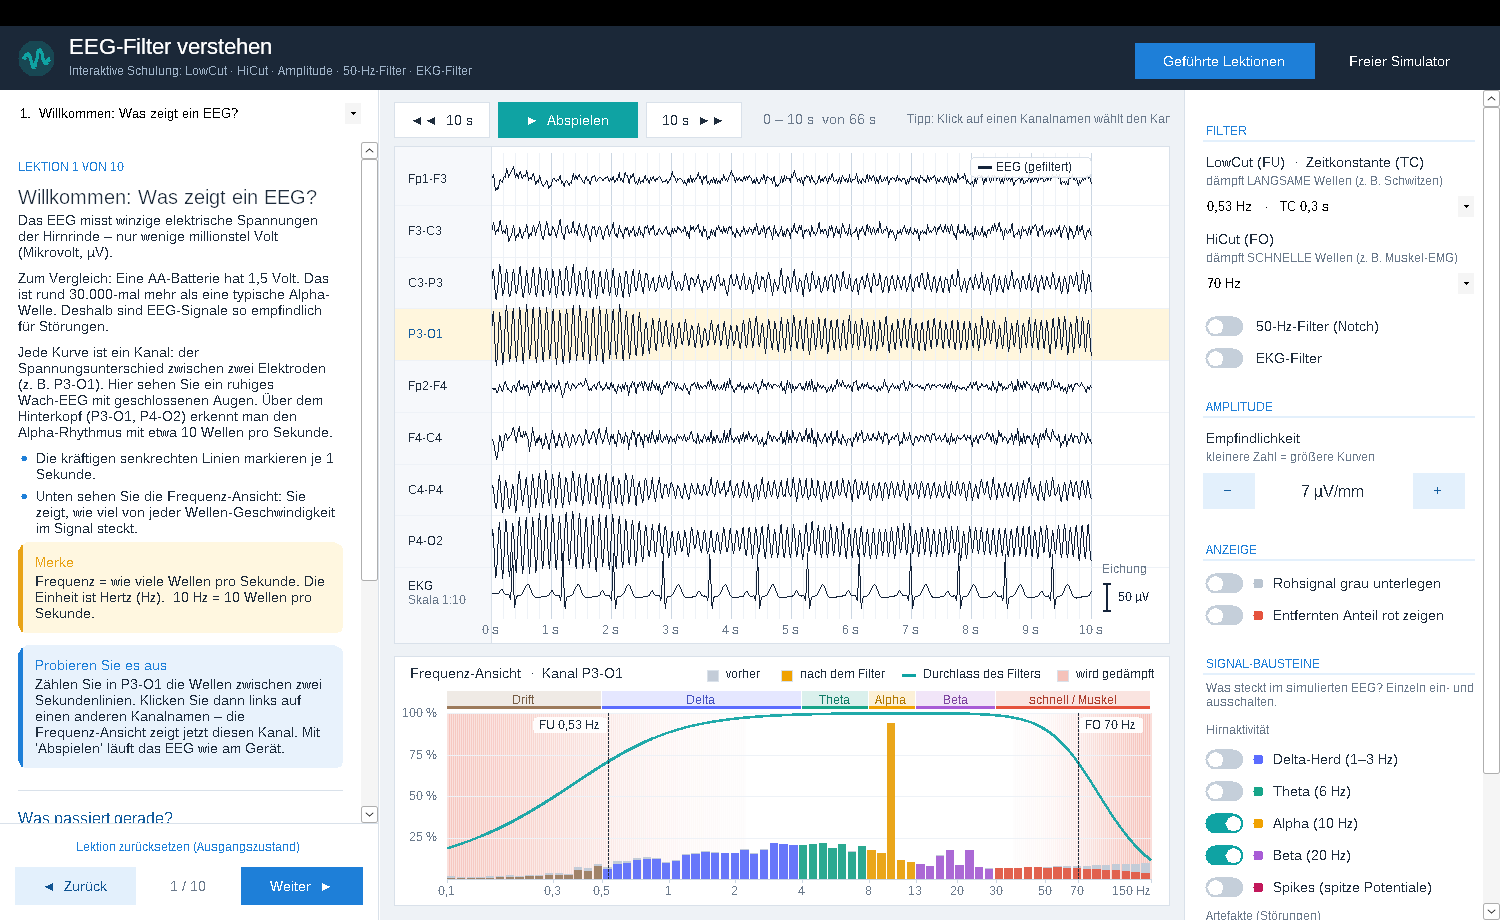
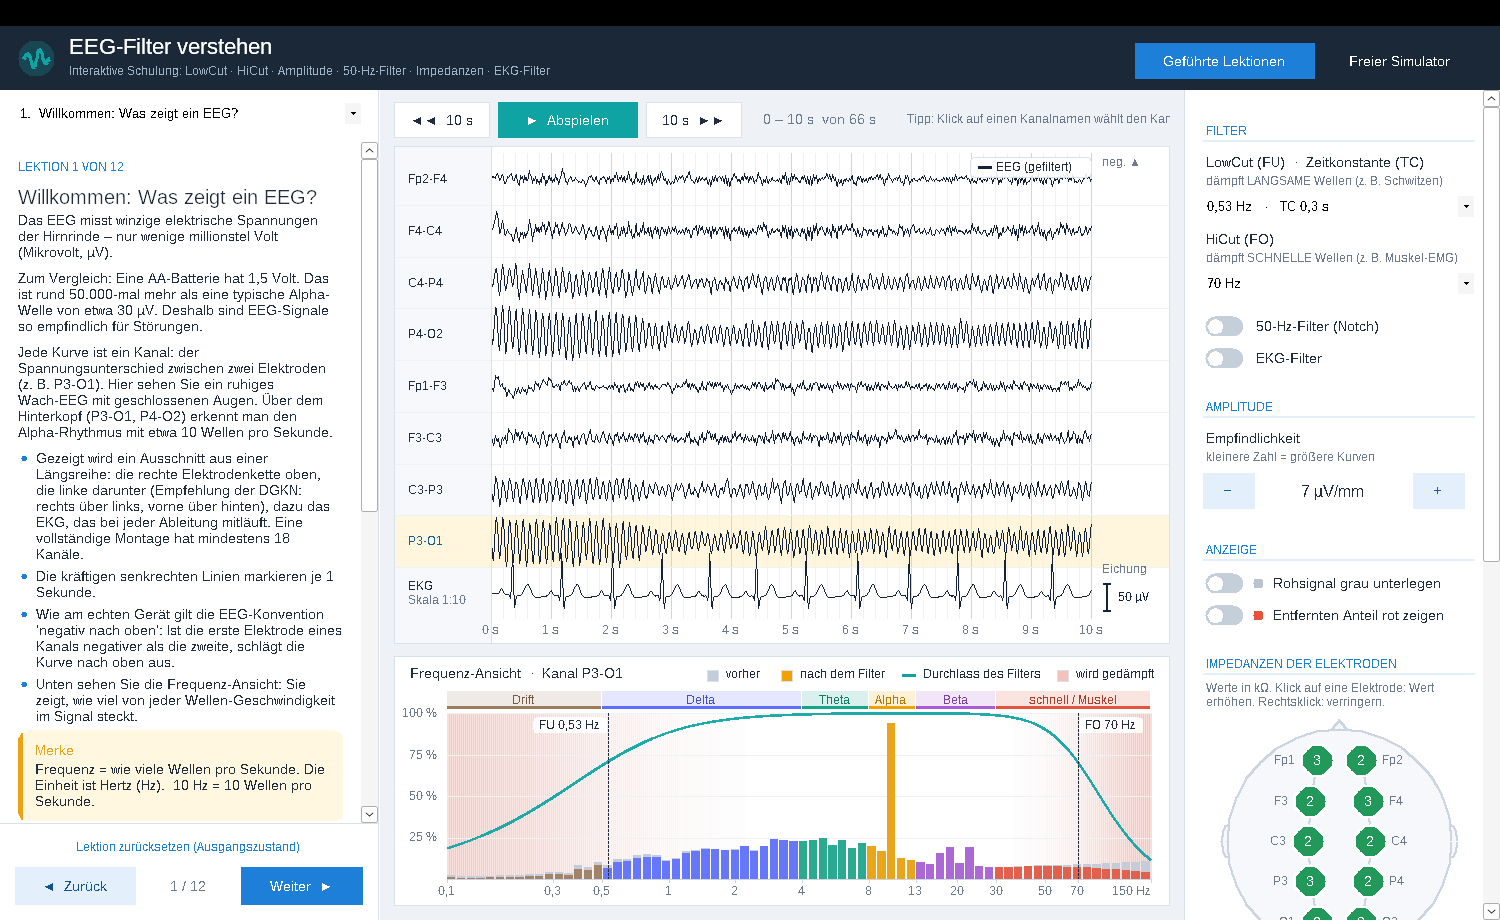
Abgleich mit DGKN-Empfehlungen 2024 und Lehrbuch (Bischoff/Straube)
- Kanäle rechts über links angeordnet (DGKN, Ableiteprogramme)
- Kinder: gleiche Geräte- und Darstellungseinstellungen wie bei
  Erwachsenen (frühere Angabe 10 µV/mm war nicht belegt)
- 50-Hz-Filter: routinemäßiger Einsatz nicht zulässig, verdeckt
  Elektroden- und Kabeldefekte
- Impedanz: höchstens 5 kΩ, Ausnahme bis 10 kΩ; unter 100 Ω unzulässig
- Alpha-Amplitude um 30 µV, Beta-Obergrenze je nach Quelle 30 oder 40 Hz
- Hautvorbereitung und typische 50-Hz-Störquellen ergänzt
- Quellenübersicht in KONZEPT.md erweitert

Claude-Session: https://claude.ai/code/session_01Y2fd9GsygCdrgbDvqwwBgL

diff --git a/KONZEPT.md b/KONZEPT.md
@@ -85,7 +85,13 @@ Die Texte und die Simulation wurden gegen öffentlich zugängliche Leitlinien un
 | Aussage in der Anwendung | Grundlage |
 |---|---|
 | LowCut höchstens 0,5 Hz (TC 0,3 s), HiCut mindestens 70 Hz, Empfindlichkeit 5–10 µV/mm | DGKN, Empfehlungen für die Durchführung von EEG-Ableitungen bei Erwachsenen (Fassung 2024) |
-| Bei Kindern meist 10 µV/mm, bei niedriger Amplitude 7 µV/mm | DGKN, Empfehlungen für EEG-Ableitungen bei Kindern |
+| Bei Kindern dieselben Geräte- und Darstellungseinstellungen wie bei Erwachsenen; Widerstände wiederholt prüfen; bei Neugeborenen unter 10 kΩ | DGKN, Empfehlungen für EEG-Ableitungen bei Kindern (Fassung Oktober 2024, im Volltext geprüft) |
+| Anordnung rechts über links, anterior über posterior; EKG während der gesamten Ableitung; mindestens 18 Kanäle | DGKN, Empfehlung zu EEG-Ableiteprogrammen (Fassung Oktober 2024, im Volltext geprüft) |
+| Standard 70 µV/cm, untere Grenzfrequenz 0,5–1 Hz, obere 70 Hz; 50-Hz-Filter bei Standard-Ableitung nicht routinemäßig (verdeckt Elektroden- und Kabeldefekte); Impedanz ≤ 5 kΩ, in Ausnahmen bis 10 kΩ, möglichst gleichmäßig; Filter und Verschaltung bei digitalen Geräten nachträglich änderbar | Baier, Kap. B-1.2 in Bischoff & Straube (Hrsg.), Leitlinien Klinische Neurophysiologie, Kohlhammer 2014 |
+| Alpha 8–13 Hz, üblicherweise um 30 µV; Beta über 13 bis 40 Hz, meist 15–25 Hz, frontozentral; Theta 4–7 Hz | Rosenow, Kap. B-1.3, ebenda |
+| Hauptkomponente epilepsietypischer Potentiale in der Regel negativ | Kap. B-1 (Befundung), ebenda |
+| Widerstände unter 100 Ω nicht zulässig (Abnahme der Potentialamplituden); Übergangswiderstände 1–10 kΩ | Kap. A-1 (EEG beim irreversiblen Hirnfunktionsausfall), ebenda |
+| Hautvorbereitung (entfetten, abrasive Paste sparsam, Kontaktgel), auf kleine Widerstandsdifferenz achten; typische 50-Hz-Störquellen | Merkblatt „Artefakte bei evozierten Potentialen“ (H. Krase) |
 | LowCut höchstens 1 Hz (TC mindestens 0,16 s), HiCut mindestens 70 Hz; Netzfilter nur, wenn andere Maßnahmen versagen, weil er Spikes verändern kann | ACNS Guideline 1: Minimum Technical Requirements for Performing Clinical EEG (2016) |
 | Spike: 20 bis unter 70 ms; Frequenzbänder | IFCN-Glossar (Kane et al., Clin Neurophysiol Pract 2017) |
 | Polarität „negativ nach oben“; Phasenumkehr an der gemeinsamen Elektrode | Beniczky & Schomer, Epileptic Disord 2020; Lehrbuchstandard |
@@ -117,4 +123,5 @@ Grenzwerte im Kopfschema: grün 1–5 kΩ, gelb bis 10 kΩ, rot über 10 kΩ, bl
 
 - Die Flankensteilheit der Filter ist geräteabhängig. Hier: LowCut 6 dB/Oktave (wie ein RC-Glied), HiCut 12 dB/Oktave.
 - Die Signale sind synthetisch. Amplituden und Verteilung sind typisch gewählt, bilden aber keinen einzelnen Patienten ab.
+- Gezeigt wird nur ein Ausschnitt einer Längsreihe (parasagittale Ketten rechts und links plus EKG), keine vollständige Montage mit mindestens 18 Kanälen.
 - Die Balken „So viel kommt durch“ werden am simulierten Baustein gemessen (Effektivwert, bei Spikes, Blinzeln und EKG die Spitzenhöhe).
